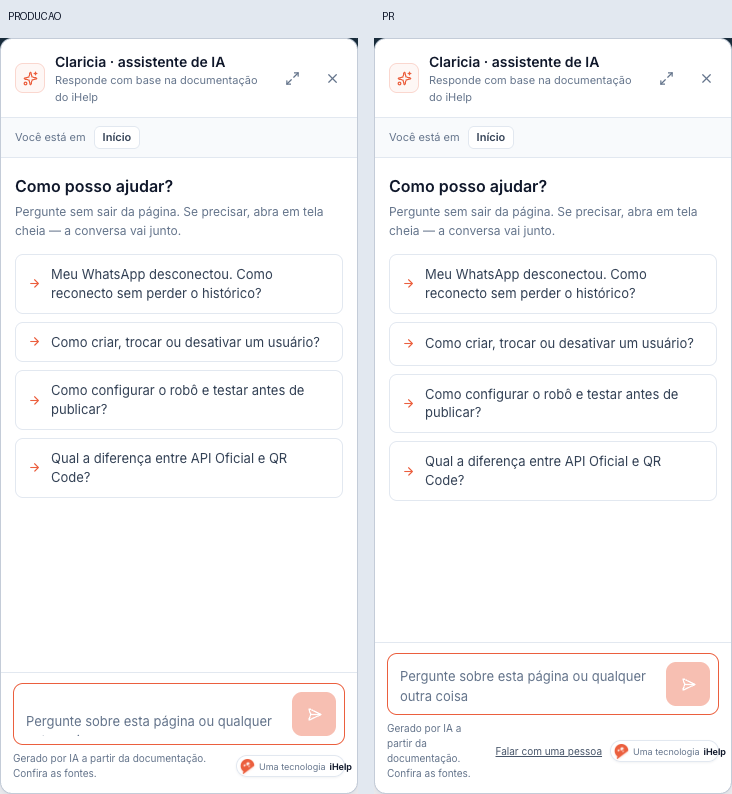
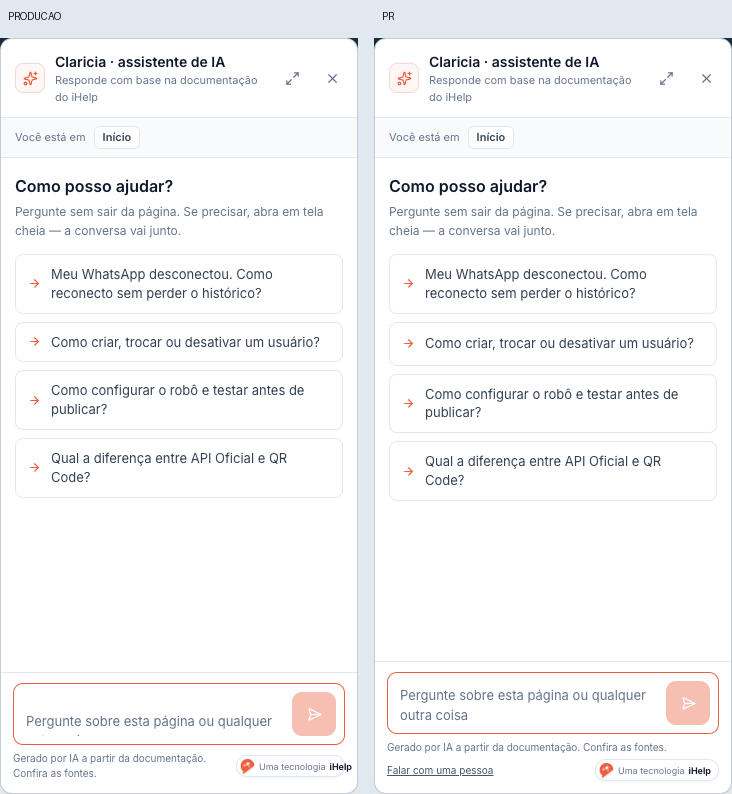
fix(M5.69): restore mobile footer and desktop error actions

Changed region(s): [[0.5109, 0.8161, 0.9918, 0.9975]]

diff --git a/pilot/app/global.css b/pilot/app/global.css
@@ -5234,14 +5234,6 @@ button {
   font-size: 12px;
 }
 
-.ih-ai-thread[data-compact] .ih-ai-error-actions button {
-  min-height: 44px;
-}
-
-.ih-ai-thread[data-compact] .ih-ai-error-actions a {
-  min-height: 44px;
-}
-
 .ih-ai-thread[data-compact] .ih-ai-busy-label {
   gap: 8px;
   margin: 0 0 8px;
@@ -5388,6 +5380,20 @@ button {
 }
 
 @media (max-width: 640px) {
+  .ih-ai-drawer-meta {
+    display: grid;
+    grid-template-columns: minmax(0, 1fr) auto;
+    gap: 4px 8px;
+  }
+
+  .ih-ai-drawer-meta > p {
+    grid-column: 1 / -1;
+  }
+
+  .ih-ai-drawer-meta > .ih-ai-drawer-human {
+    justify-self: start;
+  }
+
   .ih-ai-screen {
     overflow: hidden;
   }
